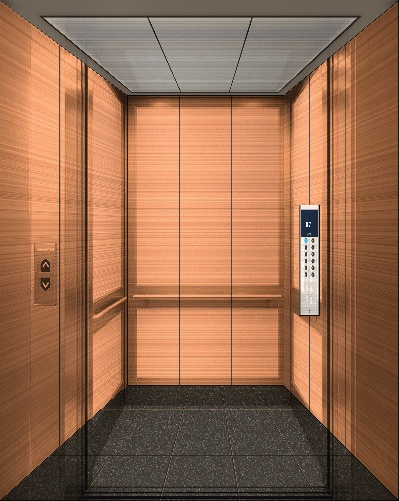
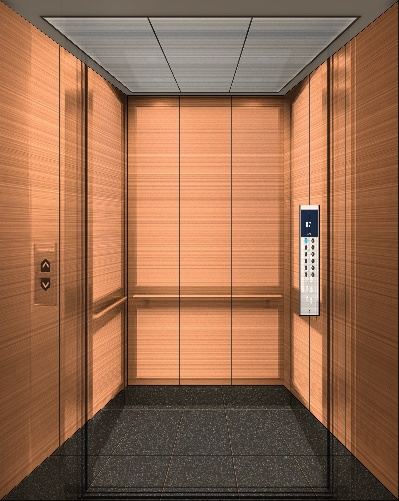
feat(quote): align PDF export handler and add engineering spec sheet download CTA button

diff --git a/frontend/src/app/page.tsx b/frontend/src/app/page.tsx
@@ -224,7 +224,7 @@ export default function ElevaiDashboard() {
   };
 
   // Export PDF Quotation & Engineering Spec Sheet
-  async function handleExportPdf() {
+  async function handleDownloadQuote() {
     const activeList = Object.values(selectedSkus).filter(Boolean);
     if (activeList.length === 0) return;
 
@@ -232,7 +232,7 @@ export default function ElevaiDashboard() {
       setExportingPdf(true);
       setError(null);
 
-      const res = await fetch(`${API_BASE}/api/v1/quote/export`, {
+      const res = await fetch("http://127.0.0.1:8000/api/v1/quote/export", {
         method: "POST",
         headers: { "Content-Type": "application/json" },
         body: JSON.stringify({
@@ -250,7 +250,7 @@ export default function ElevaiDashboard() {
       const url = window.URL.createObjectURL(blob);
       const a = document.createElement("a");
       a.href = url;
-      a.download = `elevai_modernization_quote_${activeScene}.pdf`;
+      a.download = "elevai_modernization_quote.pdf";
       document.body.appendChild(a);
       a.click();
       a.remove();
@@ -261,6 +261,8 @@ export default function ElevaiDashboard() {
       setExportingPdf(false);
     }
   }
+
+  const handleExportPdf = handleDownloadQuote;
 
   // Upload handler for cabin photo dropzone
   async function handleFileUpload(file: File) {
@@ -741,6 +743,26 @@ export default function ElevaiDashboard() {
                     {evaluation.bill_of_materials.length} Items Total
                   </div>
                 </div>
+
+                {/* Styled CTA button right below the total project estimate */}
+                <button
+                  onClick={handleDownloadQuote}
+                  disabled={exportingPdf}
+                  className="w-full mt-3 flex items-center justify-center space-x-2 rounded-lg border border-amber-500/50 bg-amber-500/20 hover:bg-amber-500/30 px-3.5 py-2.5 text-xs font-semibold text-amber-200 transition shadow-sm cursor-pointer disabled:opacity-50 disabled:cursor-not-allowed group"
+                >
+                  {exportingPdf ? (
+                    <>
+                      <Loader2 className="h-4 w-4 animate-spin text-amber-400" />
+                      <span>Compiling Engineering Spec Sheet...</span>
+                    </>
+                  ) : (
+                    <>
+                      <FileText className="h-4 w-4 text-amber-400 group-hover:scale-105 transition-transform" />
+                      <span>Download Engineering Spec Sheet (PDF)</span>
+                      <Download className="h-3.5 w-3.5 ml-1 text-amber-400/80" />
+                    </>
+                  )}
+                </button>
               </div>
 
               {/* Explanatory Fatal Violations List */}
@@ -826,19 +848,19 @@ export default function ElevaiDashboard() {
 
               {/* Direct PDF Quotation & Engineering Spec Sheet Download Trigger */}
               <button
-                onClick={handleExportPdf}
+                onClick={handleDownloadQuote}
                 disabled={exportingPdf}
                 className="w-full flex items-center justify-center space-x-2 rounded-xl border border-amber-500/40 bg-gradient-to-r from-amber-500/20 to-amber-600/20 hover:from-amber-500/30 hover:to-amber-600/30 px-4 py-3 text-xs font-semibold text-amber-300 transition shadow-lg shadow-amber-500/5 cursor-pointer disabled:opacity-50 disabled:cursor-not-allowed group"
               >
                 {exportingPdf ? (
                   <>
                     <Loader2 className="h-4 w-4 animate-spin text-amber-400" />
-                    <span>Generating Spec Sheet PDF...</span>
+                    <span>Compiling Engineering Spec Sheet...</span>
                   </>
                 ) : (
                   <>
                     <FileText className="h-4 w-4 text-amber-400 group-hover:scale-110 transition-transform" />
-                    <span>Export PDF Quotation & Spec Sheet</span>
+                    <span>Download Engineering Spec Sheet (PDF)</span>
                     <Download className="h-3.5 w-3.5 ml-1 text-amber-400/80" />
                   </>
                 )}

diff --git a/backend/main.py b/backend/main.py
@@ -241,7 +241,7 @@ def export_quotation_pdf(payload: ExportQuoteRequest):
 
     pdf_gen = get_pdf_generator()
     try:
-        pdf_bytes = pdf_gen.generate_quote_pdf(
+        pdf_bytes = pdf_gen.generate_pdf(
             evaluation=evaluation,
             cabin_dimensions_mm=dims,
             max_allowable_flooring_thickness_mm=max_floor_thk
@@ -249,10 +249,7 @@ def export_quotation_pdf(payload: ExportQuoteRequest):
         return Response(
             content=pdf_bytes,
             media_type="application/pdf",
-            headers={
-                "Content-Disposition": 'attachment; filename="elevai_modernization_quote.pdf"',
-                "Content-Type": "application/pdf"
-            }
+            headers={"Content-Disposition": "attachment; filename=elevai_modernization_quote.pdf"}
         )
     except Exception as e:
         raise HTTPException(status_code=500, detail=f"PDF generation failure: {str(e)}")

diff --git a/backend/services/pdf_generator.py b/backend/services/pdf_generator.py
@@ -131,7 +131,7 @@ class QuotePDFGenerator:
             alignment=2
         )
 
-    def generate_quote_pdf(
+    def generate_pdf(
         self,
         evaluation: Dict[str, Any],
         cabin_dimensions_mm: Optional[Dict[str, int]] = None,
@@ -401,3 +401,6 @@ class QuotePDFGenerator:
         pdf_bytes = buffer.getvalue()
         buffer.close()
         return pdf_bytes
+
+    # Backward compatibility alias
+    generate_quote_pdf = generate_pdf
